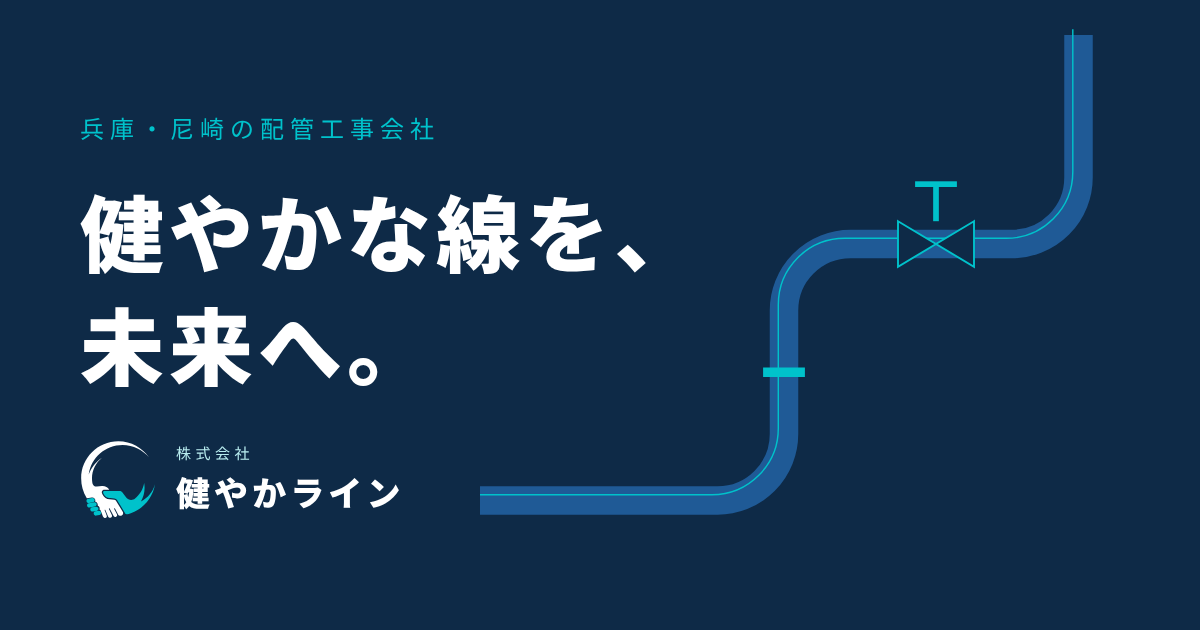
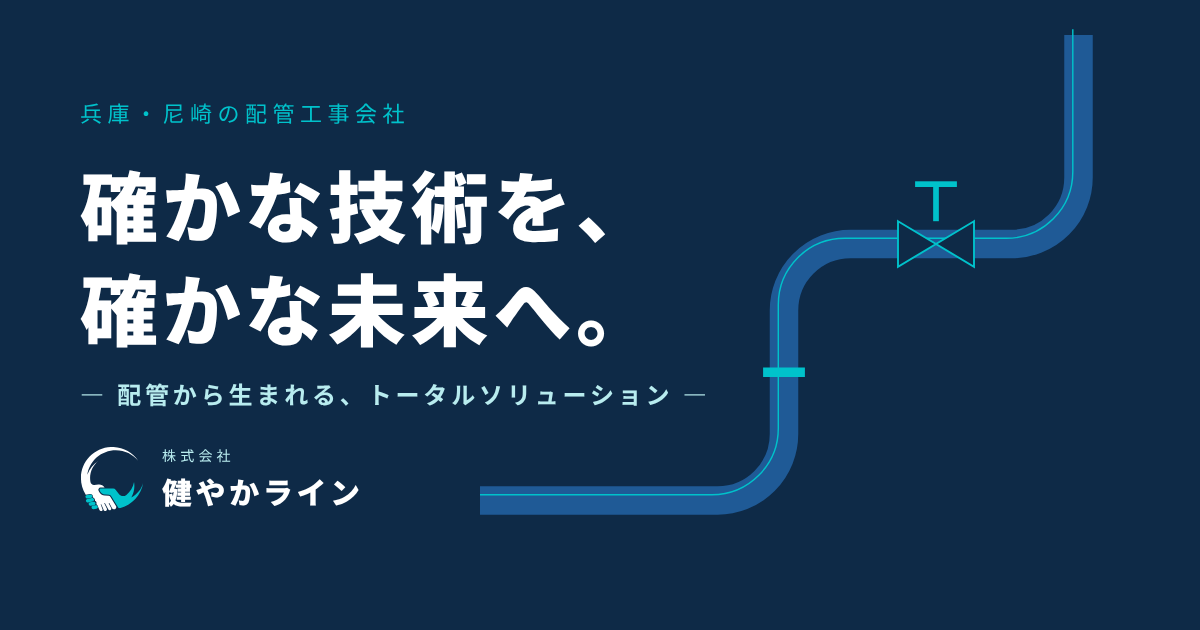
トップのキャッチコピーを「確かな技術を、確かな未来へ。」に変更し、サブタイトルを追加
Claude-Session: https://claude.ai/code/session_014772Cy9PsiDJYMxhzPvmBR

Changed region(s): [[0.0617, 0.2714, 0.555, 0.6635], [0.0617, 0.6937, 0.3392, 0.8143], [0.0617, 0.1508, 0.37, 0.2413]]

diff --git a/src/components/PipeHero.tsx b/src/components/PipeHero.tsx
@@ -101,18 +101,24 @@ export function PipeHero() {
           兵庫・尼崎の配管工事会社
         </p>
         <h1 className="mt-6 text-[40px] leading-[1.35] tracking-[0.1em] md:text-[68px]">
-          <span className="sr-only">健やかな線を、未来へ。</span>
-          <SplitLine text="健やかな線を、" start={0.3} />
+          <span className="sr-only">確かな技術を、確かな未来へ。</span>
+          <SplitLine text="確かな技術を、" start={0.3} />
           <br />
-          <SplitLine text="未来へ。" start={0.78} />
+          <SplitLine text="確かな未来へ。" start={0.78} />
         </h1>
         <p
-          className="hero-in mt-8 max-w-md text-[15px] leading-loose text-white/85 md:text-base"
-          style={{ ["--d" as string]: "1.2s" }}
+          className="hero-in mt-5 text-[13px] font-bold tracking-[0.12em] text-sky-soft md:mt-6 md:text-lg md:tracking-[0.18em]"
+          style={{ ["--d" as string]: "1.3s" }}
         >
-          工場やプラントの配管、設備の配管、機器の据付まで。TIG溶接の確かな仕上がりと、急ぎの案件にも動ける機動力で、現場の「止められない」に応えます。
+          ― 配管から生まれる、トータルソリューション ―
         </p>
-        <div className="hero-in mt-10 flex flex-col gap-3 sm:flex-row" style={{ ["--d" as string]: "1.45s" }}>
+        <p
+          className="hero-in mt-8 max-w-md text-[15px] leading-loose text-white/85 md:text-base"
+          style={{ ["--d" as string]: "1.5s" }}
+        >
+          配管工事・配管製作から、架台の製作・据付、溶接まで一貫して対応。急ぎの案件にも動ける機動力で、現場の「止められない」に応えます。
+        </p>
+        <div className="hero-in mt-10 flex flex-col gap-3 sm:flex-row" style={{ ["--d" as string]: "1.7s" }}>
           <ButtonLink href="/contact/" variant="light">
             工事を相談する
           </ButtonLink>
